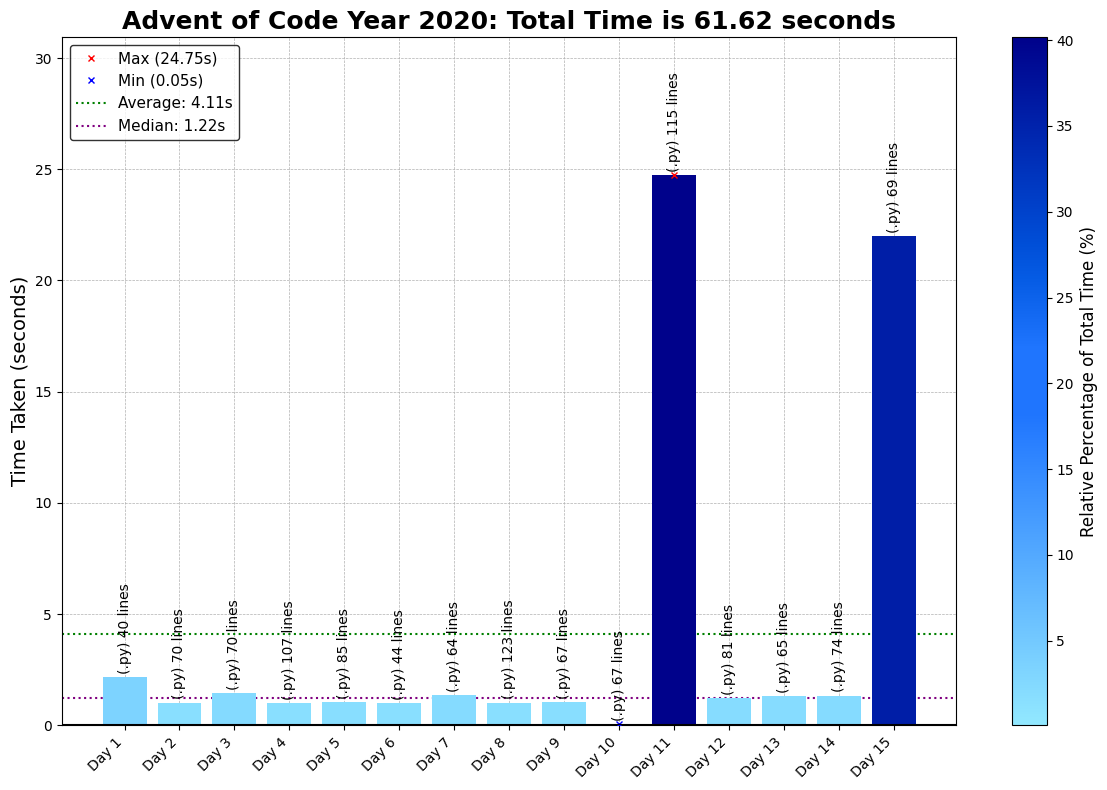
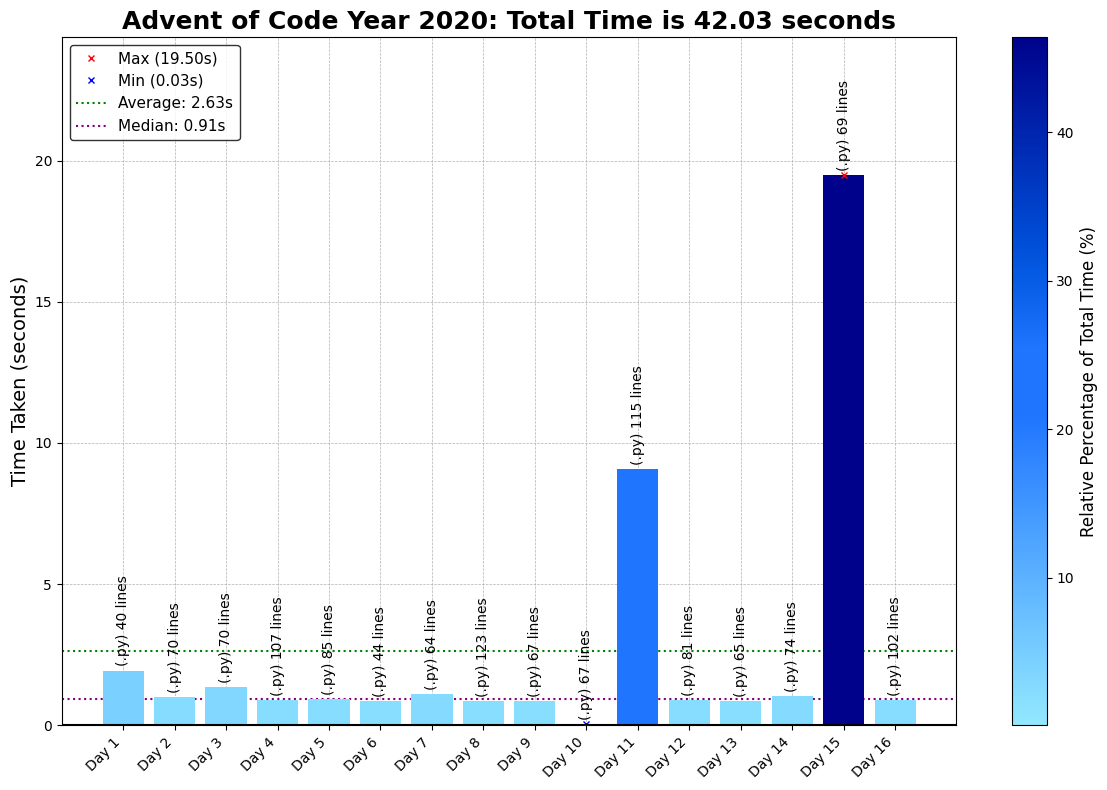
2020 Day 15 & 16

diff --git a/2020/16/2020Day16.py b/2020/16/2020Day16.py
@@ -1,0 +1,102 @@
+# Advent of Code - Day 16, Year 2020
+# Solution Started: Nov 21, 2024
+# Puzzle Link: https://adventofcode.com/2020/day/16
+# Solution by: [abbasmoosajee07]
+# Brief: [Filling missing information]
+
+#!/usr/bin/env python3
+
+import os, re, copy
+import numpy as np
+import pandas as pd
+import matplotlib.pyplot as plt
+
+# Load the input data from the specified file path
+D16_file = "Day16_input.txt"
+D16_file_path = os.path.join(os.path.dirname(os.path.abspath(__file__)), D16_file)
+
+# Parse input data into sections
+with open(D16_file_path) as file:
+    input_data = file.read().strip().split('\n\n')
+
+
+# Parsing Functions
+def parse_rules(rules_section):
+    rules = {}
+    for line in rules_section.split('\n'):
+        name, ranges = line.split(': ')
+        range1, range2 = ranges.split(' or ')
+        r1_start, r1_end = map(int, range1.split('-'))
+        r2_start, r2_end = map(int, range2.split('-'))
+        rules[name] = [(r1_start, r1_end), (r2_start, r2_end)]
+    return rules
+
+
+def parse_tickets(ticket_section):
+    return [list(map(int, line.split(','))) for line in ticket_section.split('\n')[1:]]
+
+
+# Parse all input sections
+rules = parse_rules(input_data[0])
+your_ticket = parse_tickets(input_data[1])[0]
+nearby_tickets = parse_tickets(input_data[2])
+
+
+# Part 1: Finding invalid tickets
+def is_valid_for_any_rule(number, rules):
+    for ranges in rules.values():
+        for r_start, r_end in ranges:
+            if r_start <= number <= r_end:
+                return True
+    return False
+
+
+def find_invalid_tickets(tickets, rules):
+    invalid_numbers = []
+    valid_tickets = []
+    for ticket in tickets:
+        ticket_valid = True
+        for number in ticket:
+            if not is_valid_for_any_rule(number, rules):
+                invalid_numbers.append(number)
+                ticket_valid = False
+        if ticket_valid:
+            valid_tickets.append(ticket)
+    return invalid_numbers, valid_tickets
+
+
+invalid_numbers, valid_tickets = find_invalid_tickets(nearby_tickets, rules)
+print("Part 1:", sum(invalid_numbers))
+
+
+# Part 2: Identifying field mappings
+def find_field_mapping(tickets, rules):
+    field_candidates = {field: set(range(len(tickets[0]))) for field in rules}
+    
+    for ticket in tickets:
+        for idx, value in enumerate(ticket):
+            for field, ranges in rules.items():
+                if not any(r_start <= value <= r_end for r_start, r_end in ranges):
+                    field_candidates[field].discard(idx)
+    
+    field_mapping = {}
+    while field_candidates:
+        for field, candidates in list(field_candidates.items()):
+            if len(candidates) == 1:
+                idx = candidates.pop()
+                field_mapping[field] = idx
+                del field_candidates[field]
+                for remaining_candidates in field_candidates.values():
+                    remaining_candidates.discard(idx)
+    return field_mapping
+
+
+field_mapping = find_field_mapping(valid_tickets, rules)
+
+# Calculate the product of "departure" fields on your ticket
+departure_product = 1
+for field, idx in field_mapping.items():
+    if field.startswith("departure"):
+        departure_product *= your_ticket[idx]
+
+print("Part 2:", departure_product)

diff --git a/2020/15/2020Day15.py b/2020/15/2020Day15.py
@@ -2,7 +2,7 @@
 # Solution Started: Nov 21, 2024
 # Puzzle Link: https://adventofcode.com/2020/day/15
 # Solution by: [abbasmoosajee07]
-# Brief: [Code/Problem Description]
+# Brief: [Forming number sequences]
 
 #!/usr/bin/env python3
 
